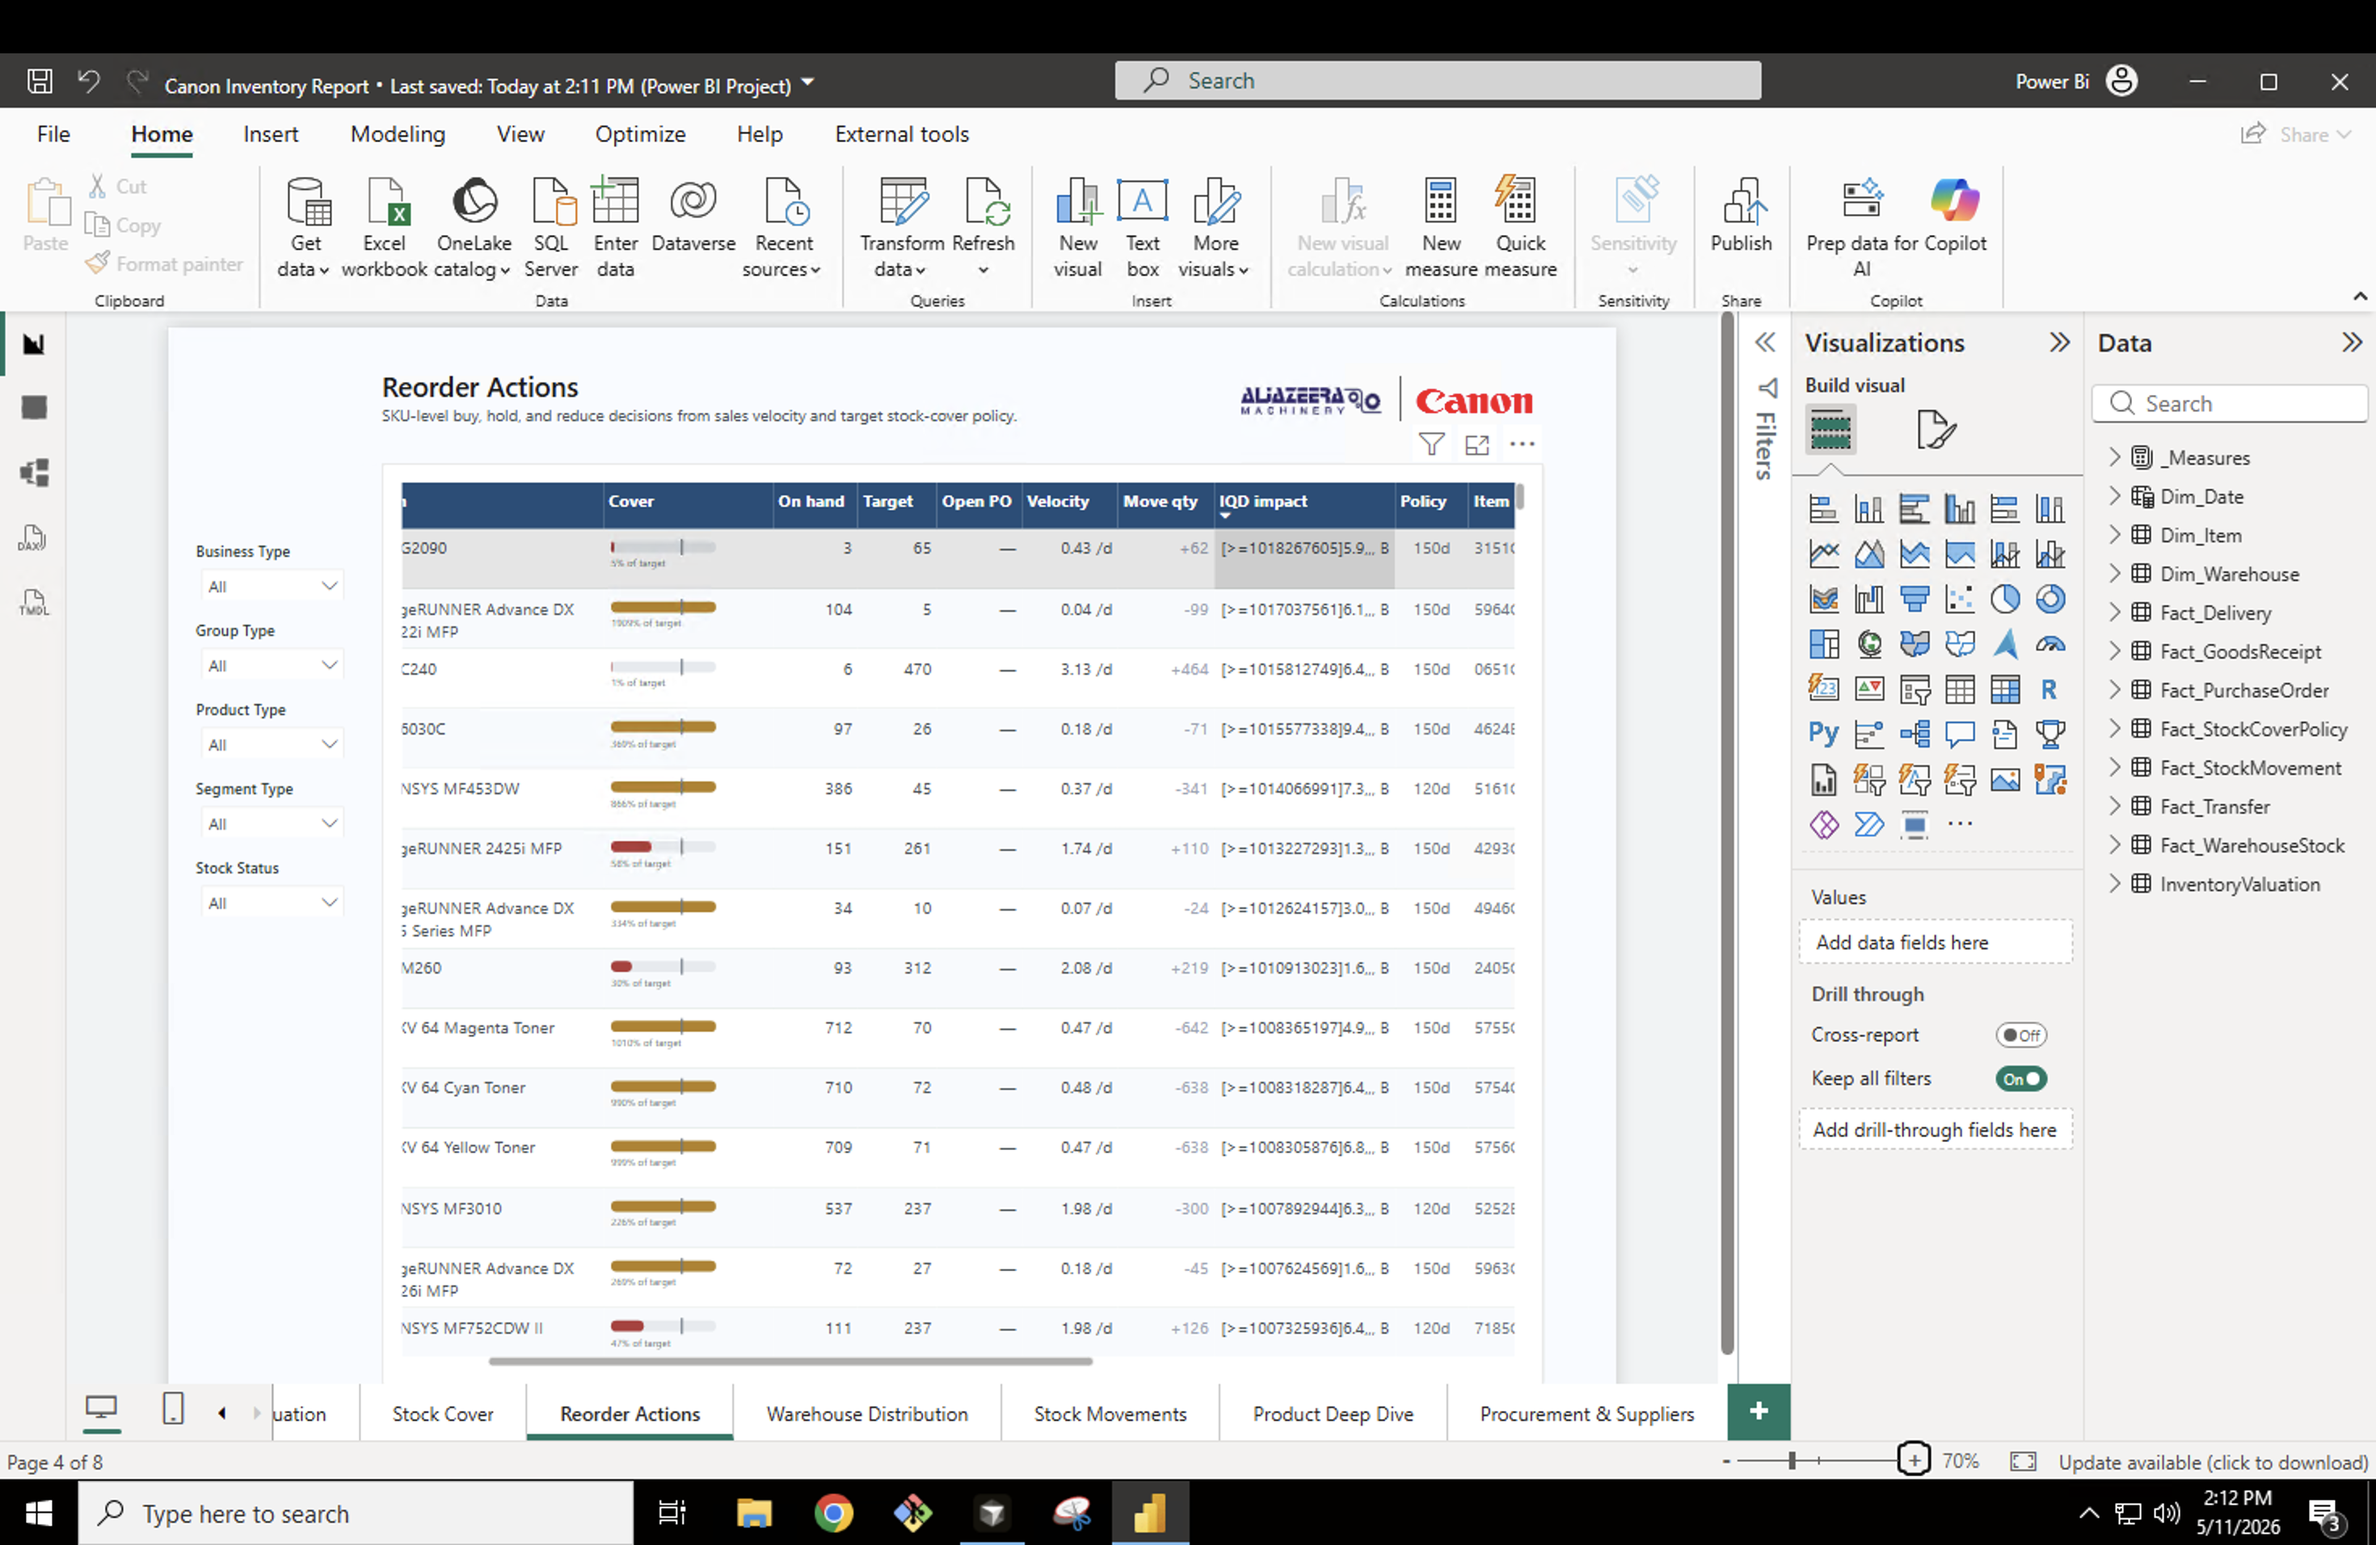
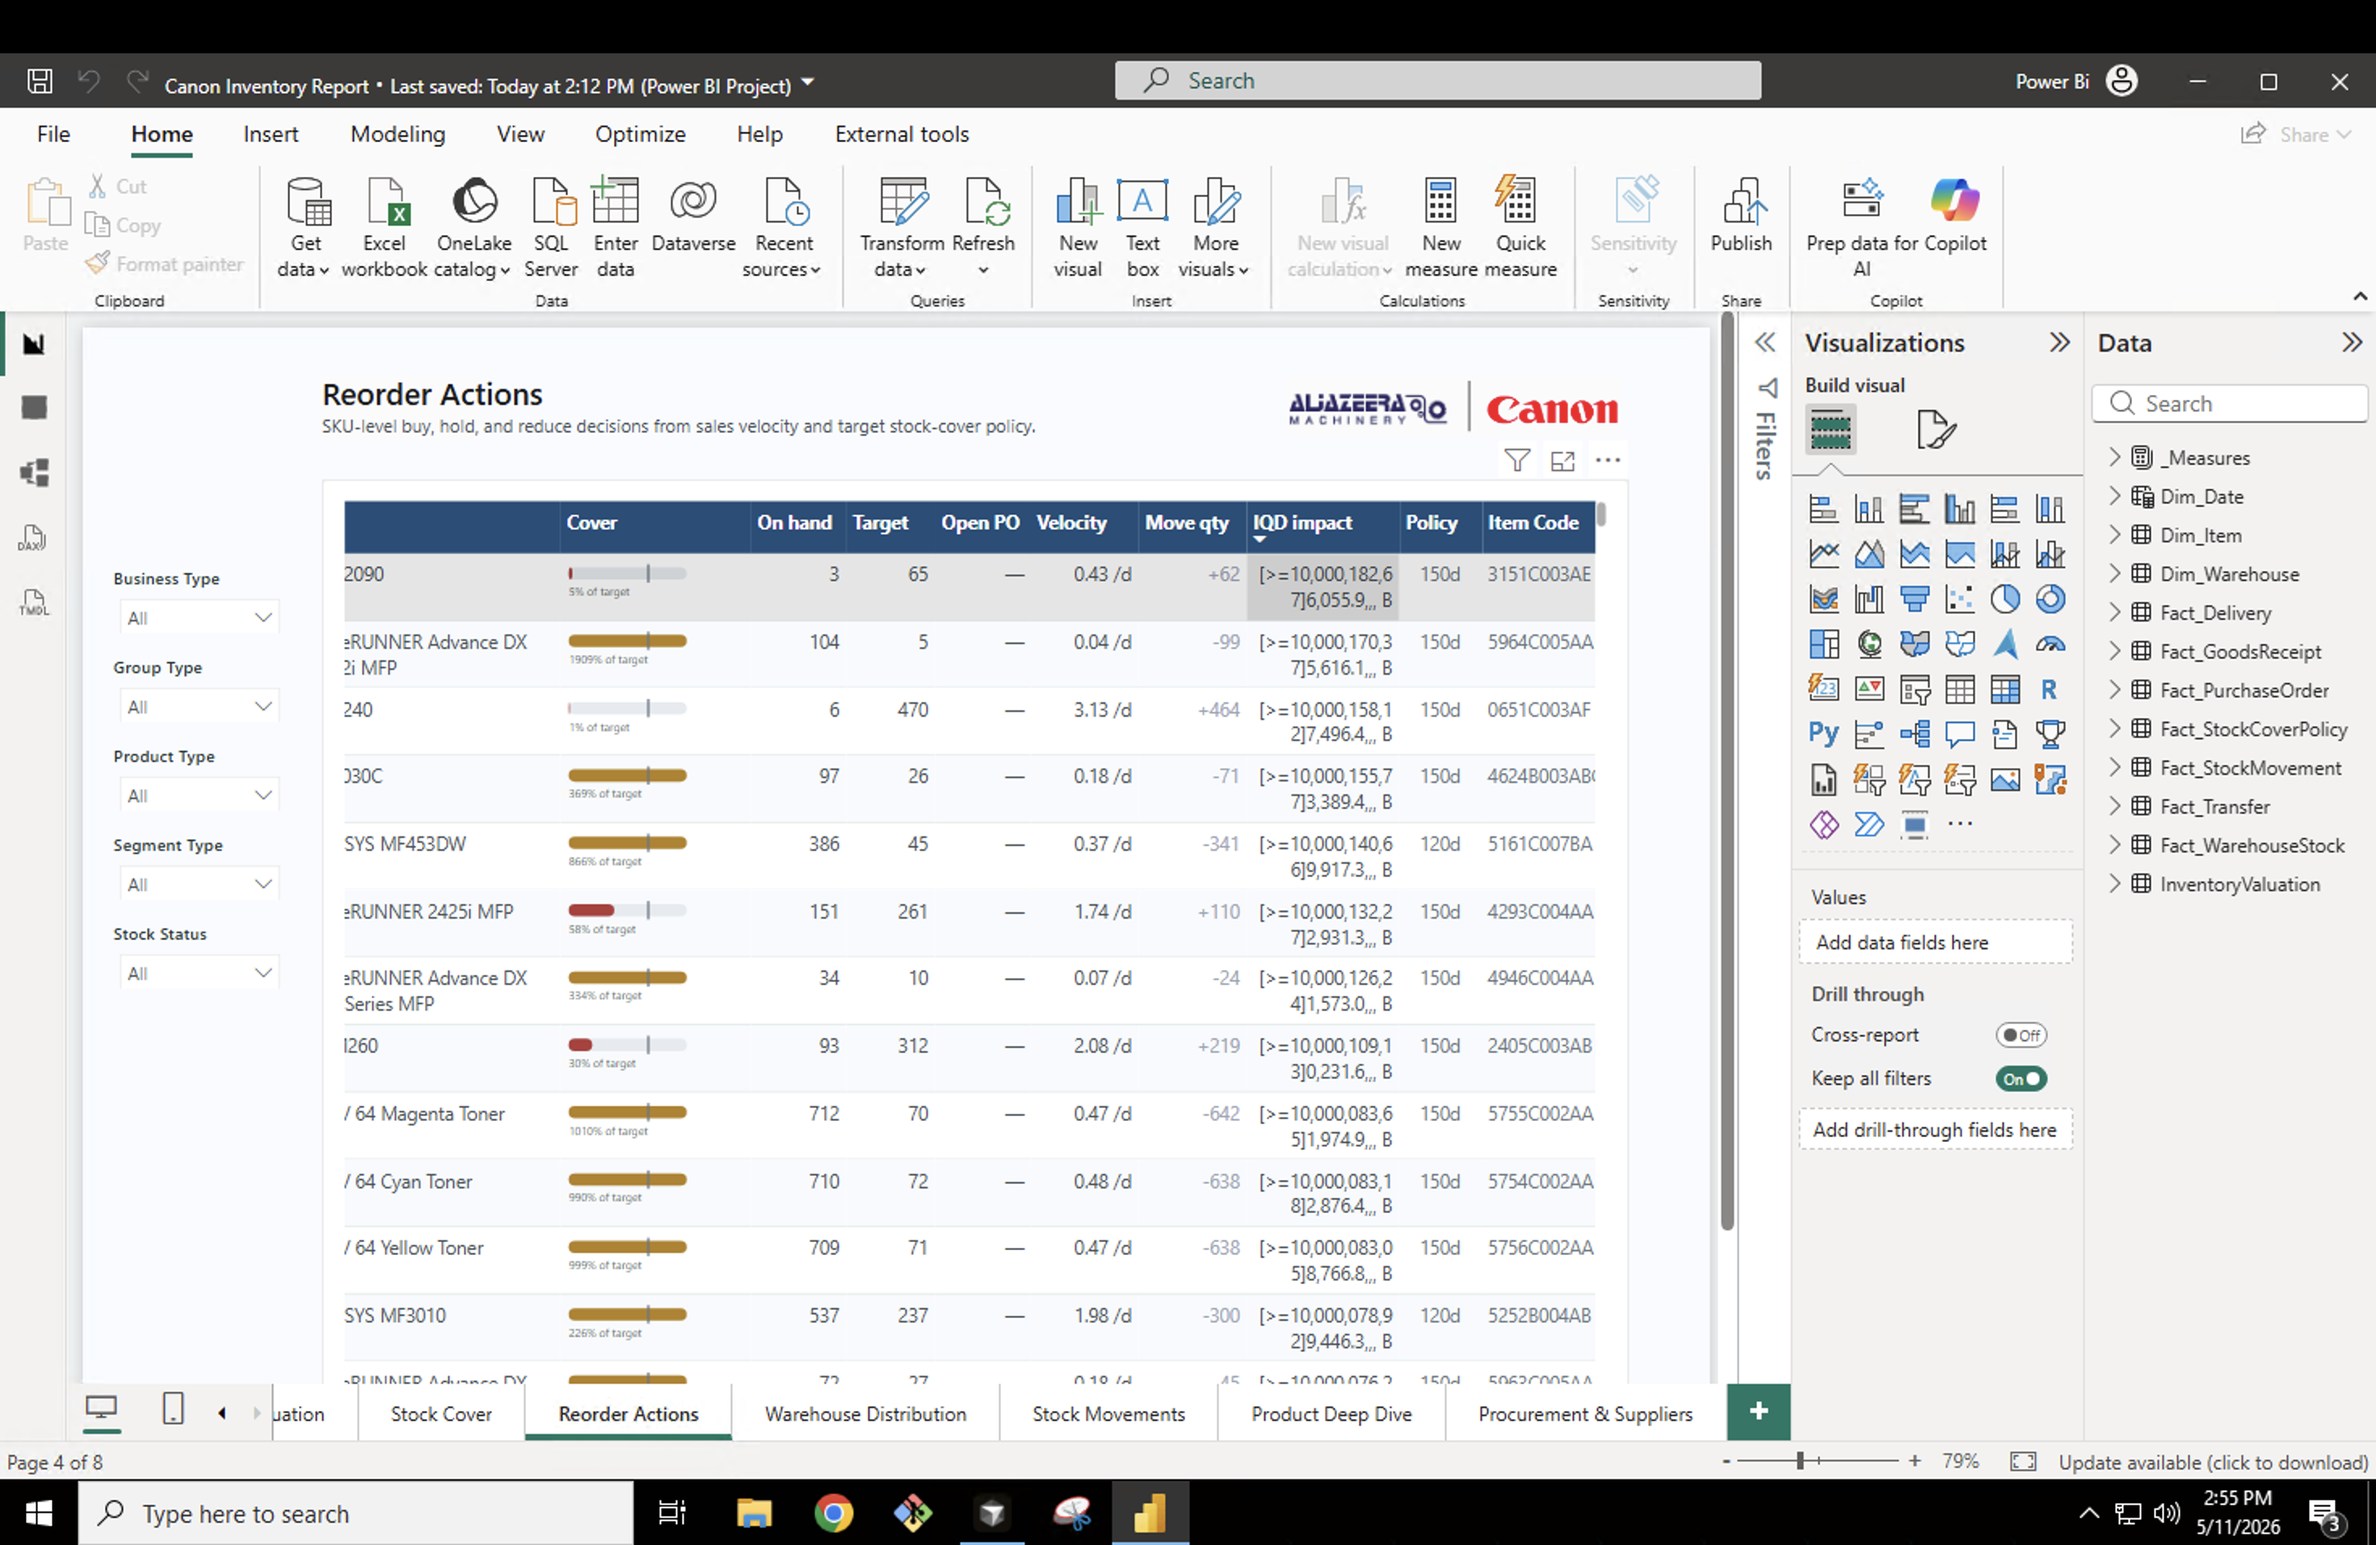
fix(Inventory): Reorder IQD impact table formatting
Replace unsupported conditional format string on Reorder IQD Impact with plain numeric formatting so table cells show values instead of literal [>=...] tokens. Widen IQD impact column to 145D. Update module CURRENT_STATUS.

diff --git a/Reports/Inventory/Module/Project Memory/CURRENT_STATUS.md b/Reports/Inventory/Module/Project Memory/CURRENT_STATUS.md
@@ -6,6 +6,7 @@
 
 ## Current Reality
 
+- May 11, 2026 (pm-4) — Fixed Reorder Actions IQD impact rendering by removing the unsupported conditional `[>=...]` custom format sections from `_Measures[Reorder IQD Impact]`. Power BI was rendering those sections as literal text in table cells; the measure now uses plain numeric `#,0;-#,0;0` formatting and remains numeric for header sorting. IQD impact column width increased to 145D for full values.
 - May 11, 2026 (pm-3) — IQD impact column width bumped to 120D and the auto-scale format string switched to standard `#,##0.0` digit pattern (`[>=1B]#,##0.0,,," B";[>=1M]…;[>=1K]…;#,##0`). The previous 95D width was clipping the trailing "K" on 5+ digit values like `145.3 K` so it visually looked like a stray vertical bar; "M" values fit because they were shorter.
 - May 11, 2026 (pm-2) — Fixed Reorder Actions sort behaviour: Move qty and IQD impact are now numeric measures (`Reorder Move Qty Value` with `+#,0;-#,0;0`, `Reorder IQD Impact` with conditional `[>=1B]/[>=1M]/[>=1K]` format string for auto-scale). Clicking the column headers now sorts by the actual amount instead of alphabetic text. Cover bar shows "— no target" for non-mover rows (TargetStockQty=0) so a missing fill is no longer mis-read as "0% of target"; ratio is also clamped to ≥0 / ≤150% so weird values can't push the fill outside the track. Dropped the now-unused `Reorder Move Qty Label` and `Reorder IQD Impact Label` text measures.
 - May 11, 2026 (pm) — Reorder Actions table re-shaped to 15 columns. Restored the rounded SVG pill on Action (`Reorder Action Pill SVG`, now with an inner `<title>` for accessible name). Item column shows only `ItemName` (bold). `Reorder Cover Bar SVG` track is thicker (12px) and the "% of target" label is now 11pt. Reference fields moved to the right end in this order: Policy → Item Code → Business Type → Group Type → Product Type → Segment Type. The table is wider than the visual frame (~1500px) so it scrolls horizontally inside the 1028px container.
